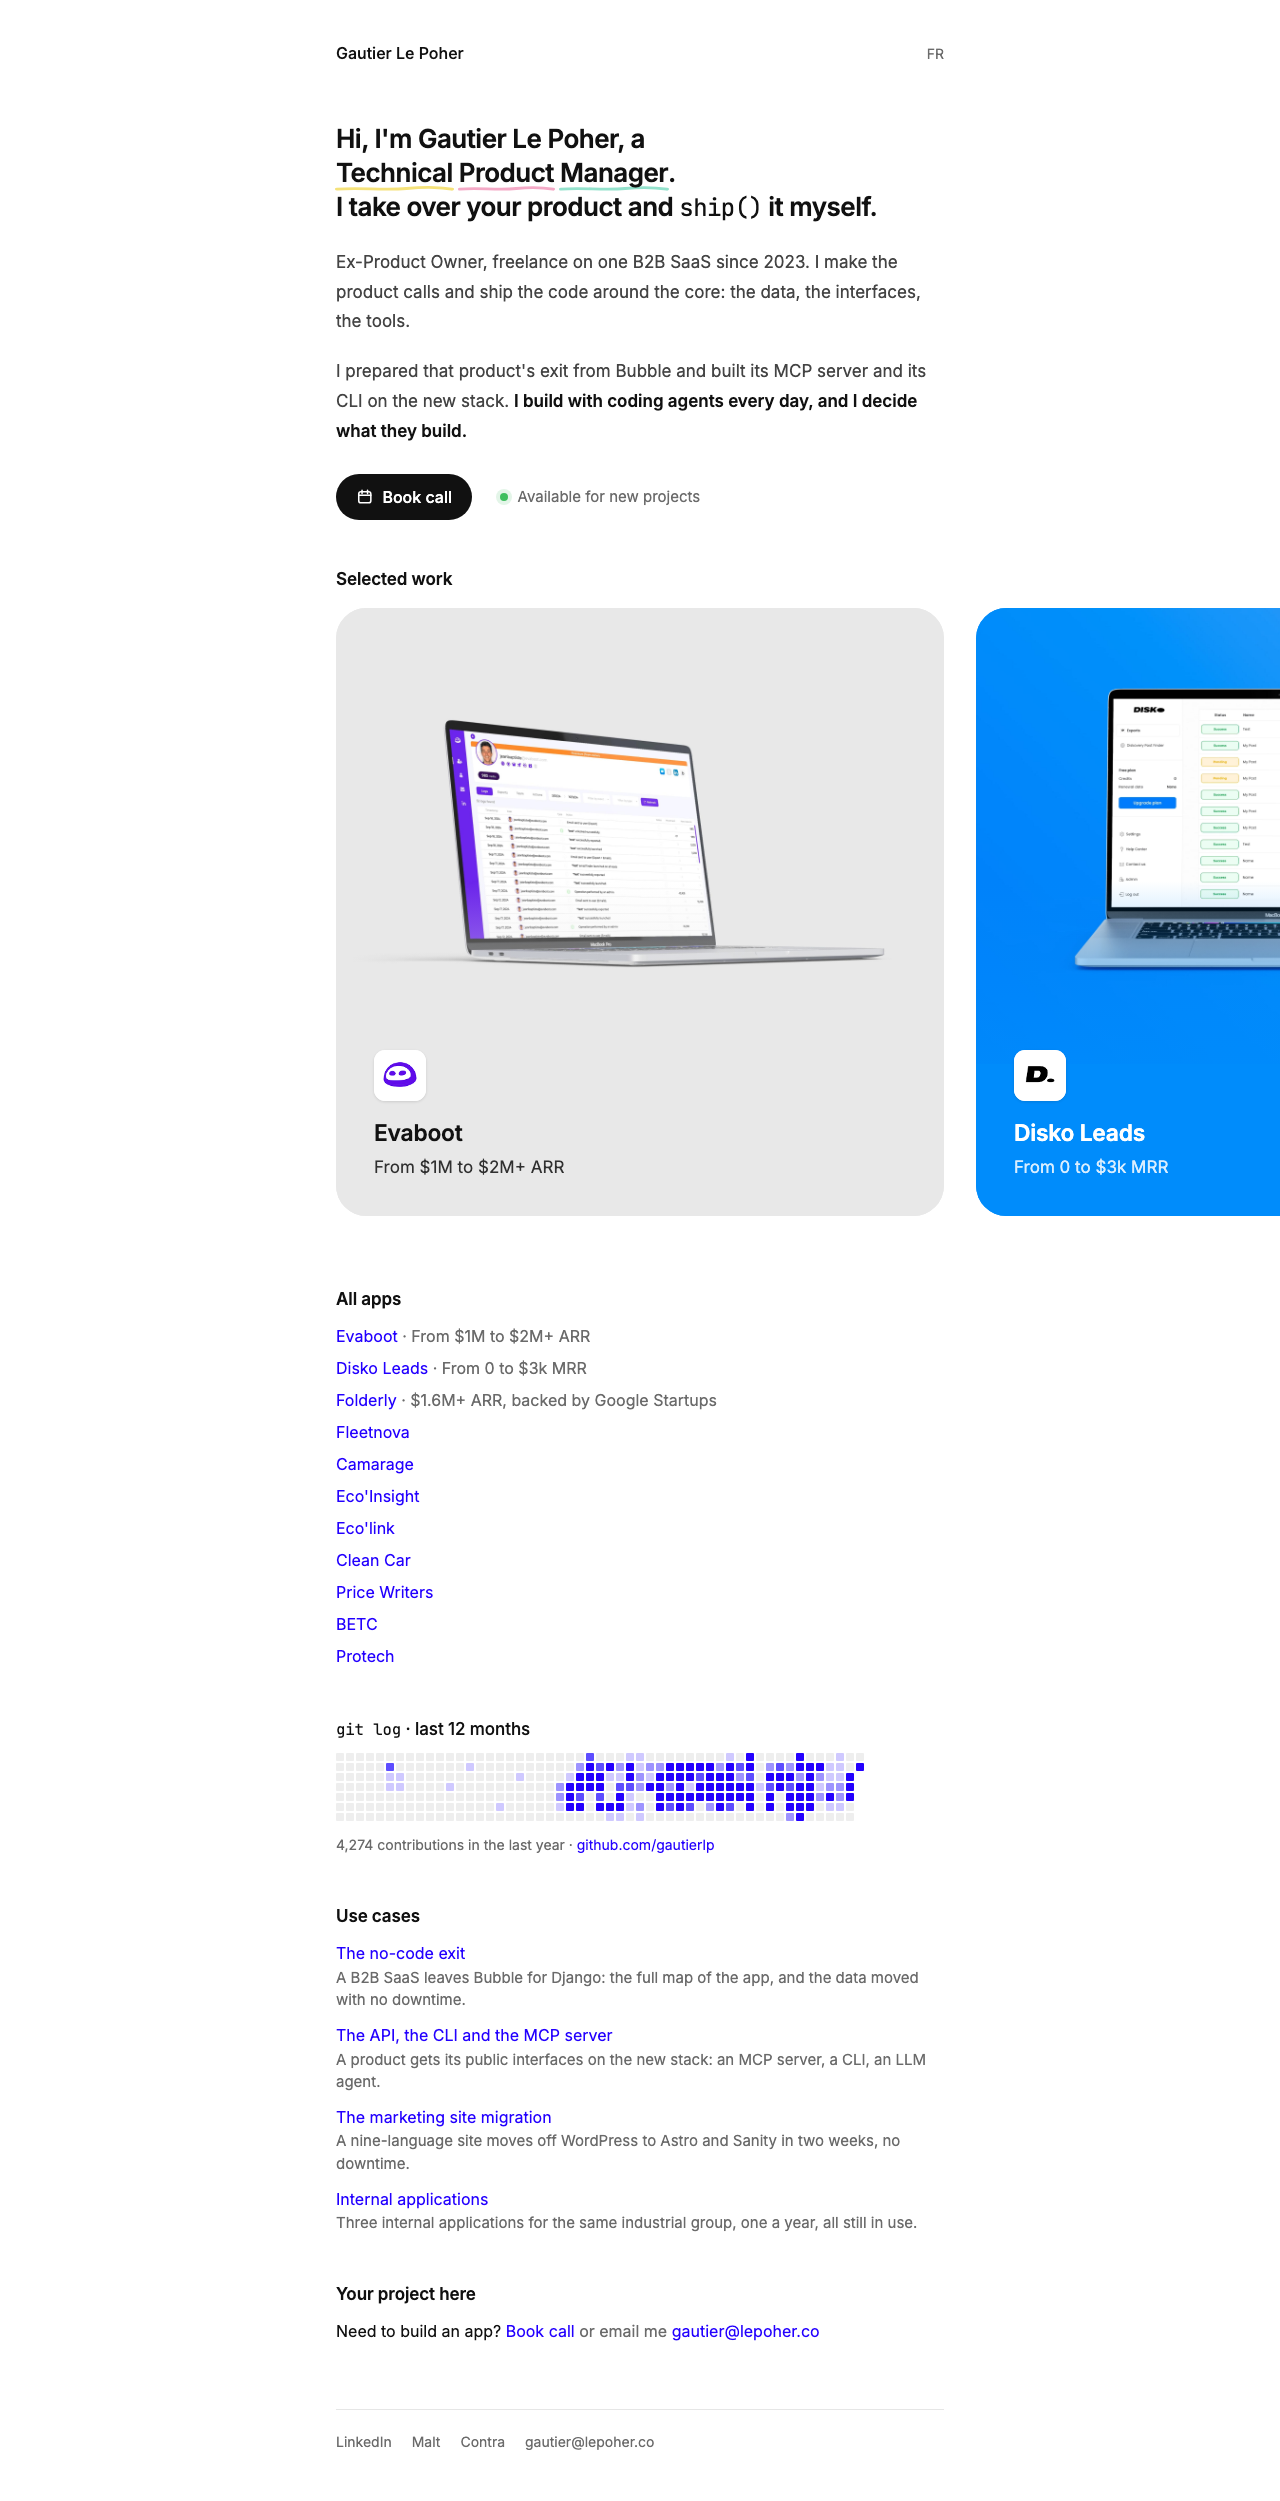
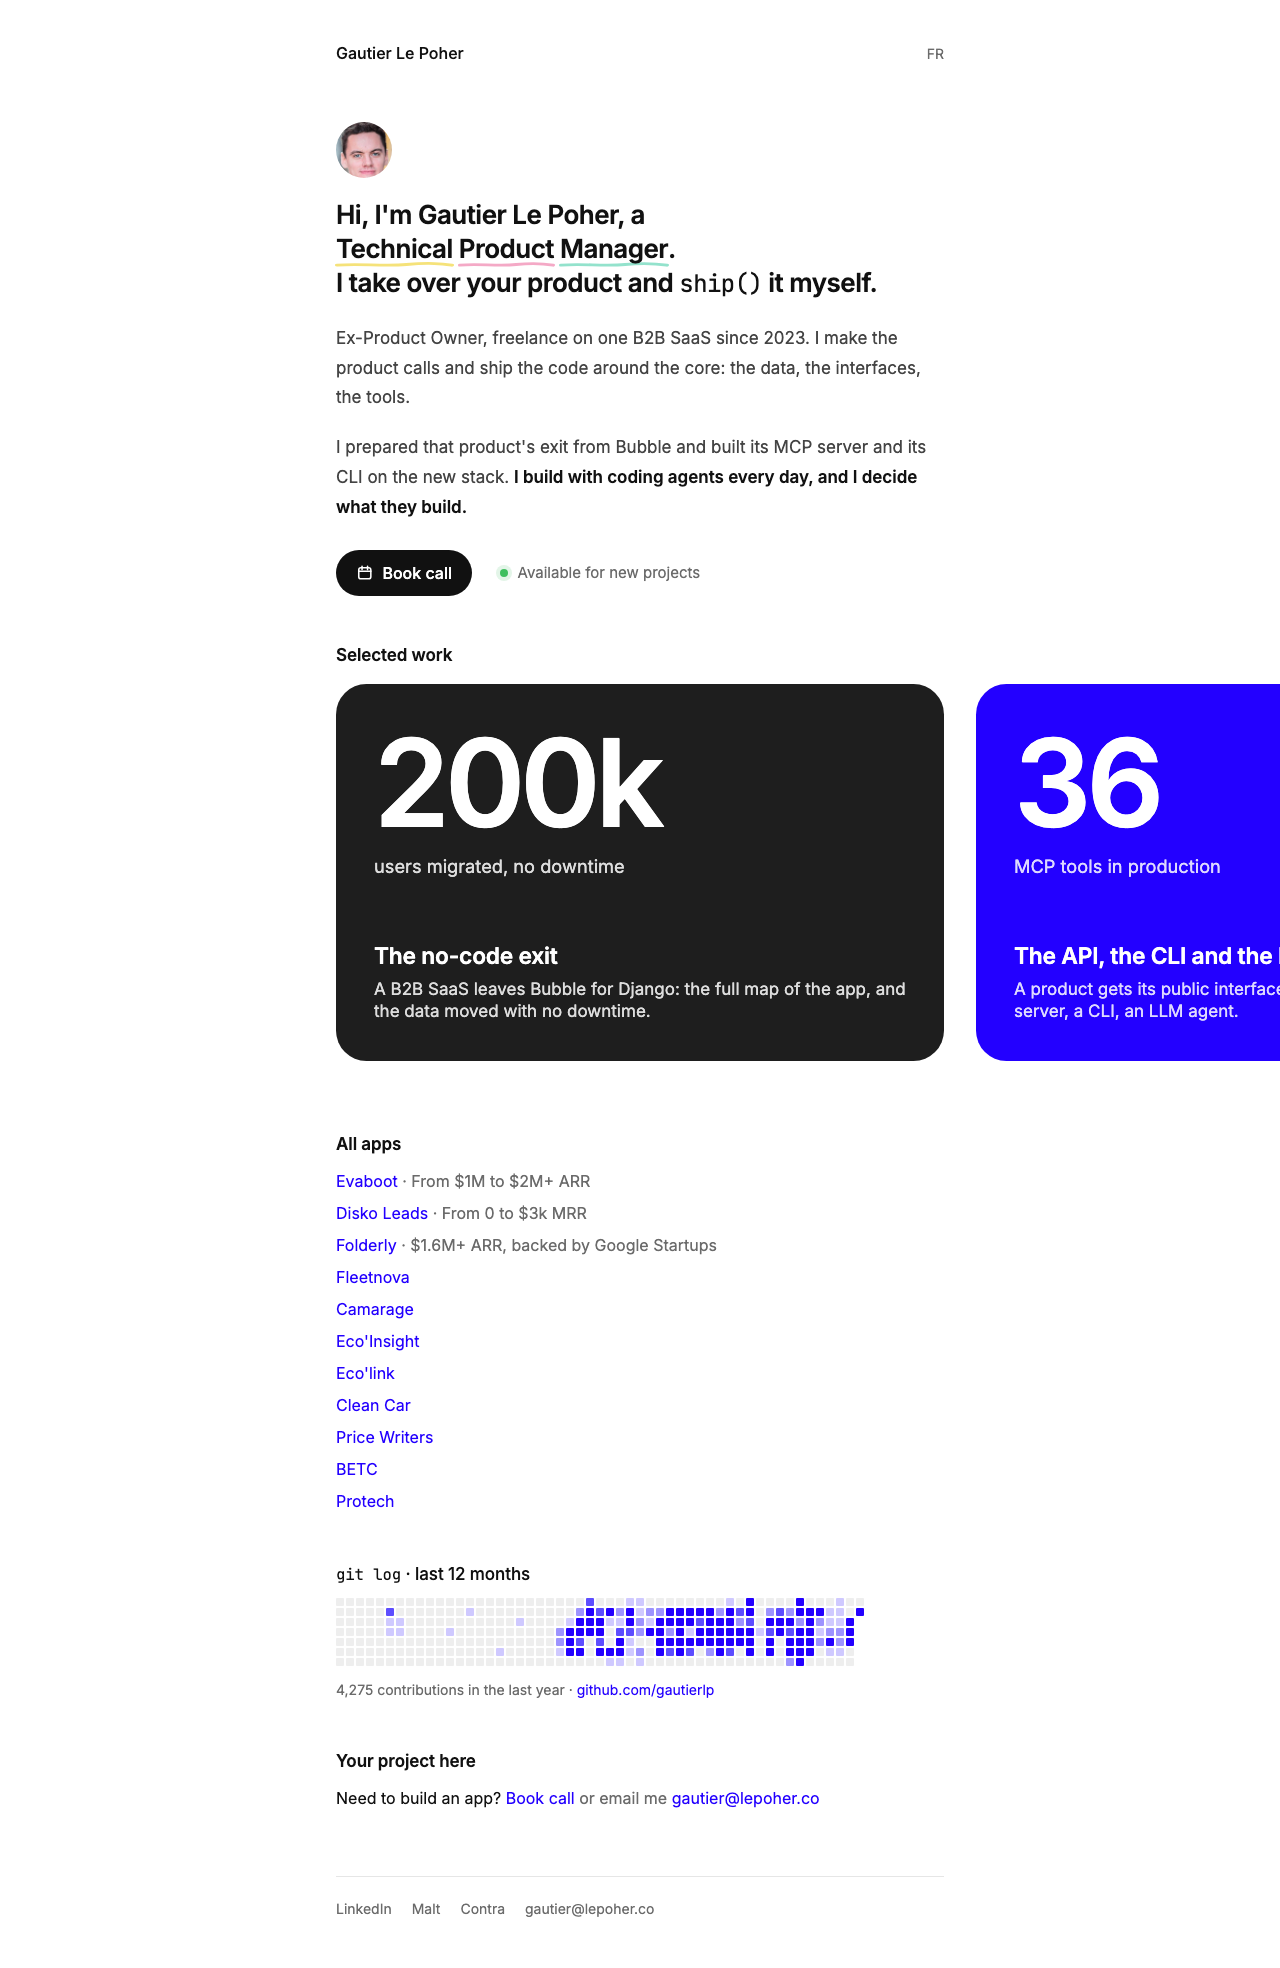
feat(design): use cases as selected work, small photo in the hero
The cards now show the four use cases with their result as a large
number, since those are what a buyer compares; the clients stay in the
plain list. The photo is a crop of image01.jpg without the Bubble
badge.

diff --git a/src/styles/global.css b/src/styles/global.css
@@ -41,6 +41,7 @@ h1, h2, h3 { font-size: 1.0625rem; font-weight: 600; line-height: 1.4; letter-sp
 .block > * + * { margin-top: 0.75rem; }
 .hero h1 { font-size: 1.625rem; line-height: 1.3; letter-spacing: -0.02em; }
 .hero__line { display: block; }
+.avatar { display: block; width: 3.5rem; height: 3.5rem; border-radius: 50%; object-fit: cover; }
 .hero > p { color: #444444; font-size: 1.0625rem; line-height: 1.75; }
 .hero > p strong { color: var(--ink); }
 .hero > * + * { margin-top: 1.25rem; }
@@ -75,14 +76,15 @@ h1, h2, h3 { font-size: 1.0625rem; font-weight: 600; line-height: 1.4; letter-sp
   display: flex; gap: clamp(0.75rem, 2.5vw, 2.5rem); padding: 1rem var(--edge) 1.5rem; overflow-x: auto;
   scroll-snap-type: x mandatory; scroll-padding-inline: var(--edge); overscroll-behavior-x: contain; scrollbar-width: none; }
 .work__track::-webkit-scrollbar { display: none; }
-.work__slide { flex: 0 0 var(--card); scroll-snap-align: start; }
-.card { position: relative; display: block; aspect-ratio: 1; overflow: hidden; isolation: isolate; border-radius: calc(var(--card) * 0.05);
+.work__slide { flex: 0 0 var(--card); display: flex; scroll-snap-align: start; }
+.work__slide > .card { flex: 1; }
+.card { position: relative; display: flex; flex-direction: column; justify-content: space-between; gap: 2rem; min-height: calc(var(--card) * 0.62); padding: calc(var(--card) * 0.0625); overflow: hidden; isolation: isolate; border-radius: calc(var(--card) * 0.05);
   background: var(--card-bg); color: var(--card-fg); transition: transform 0.5s ease, box-shadow 0.5s ease; }
 .card:hover { text-decoration: none; transform: translateY(-3px) scale(1.012); box-shadow: 0 18px 40px -18px rgba(0, 0, 0, 0.35); }
-.card::before { content: ""; position: absolute; inset: 45% 0 0; z-index: 1; background: linear-gradient(to bottom, transparent, var(--card-bg) 70%); }
-.card__media { position: absolute; top: 0; left: 0; width: 100%; height: auto; }
-.card__copy { position: absolute; left: calc(var(--card) * 0.0625); bottom: calc(var(--card) * 0.0625); right: calc(var(--card) * 0.0625); z-index: 2; display: flex; flex-direction: column; align-items: flex-start; }
-.card__logo { width: calc(var(--card) * 0.085); height: auto; min-width: 2.25rem; margin-bottom: calc(var(--card) * 0.03); border-radius: 22%; background: #ffffff; box-shadow: 0 1px 3px rgba(0, 0, 0, 0.12); }
+.card__figure { display: flex; flex-direction: column; }
+.card__number { font-size: calc(var(--card) * 0.2); font-weight: 600; letter-spacing: -0.04em; line-height: 1; }
+.card__unit { margin-top: calc(var(--card) * 0.02); font-size: max(0.9375rem, calc(var(--card) * 0.03)); line-height: 1.3; opacity: 0.85; }
+.card__copy { display: flex; flex-direction: column; align-items: flex-start; }
 .card__name { font-size: max(1.125rem, calc(var(--card) * 0.0375)); font-weight: 600; letter-spacing: -0.01em; line-height: 1.25; }
 .card__tagline { margin-top: calc(var(--card) * 0.0125); font-size: max(0.9375rem, calc(var(--card) * 0.028)); line-height: 1.3; opacity: 0.85; }
 @media (prefers-reduced-motion: reduce) { .card, .card:hover { transition: none; transform: none; } }

diff --git a/docs/superpowers/reports/design-plud.md b/docs/superpowers/reports/design-plud.md
@@ -20,9 +20,10 @@ At 390px, `document.documentElement.scrollWidth` is 390 on both pages, so there 
 - `src/styles/global.css`: rewritten. One 640px column (`--column: 40rem`) centred on a white page, 16px gutter. Inter for all text, JetBrains Mono only for `ship()` and `git log`. Near-black text, one grey (`--muted`), `#2300ff` kept as the only accent and used for links and the graph. Headings are 17px, weight 600; the headline and page titles are 22px. The Carrd frame, the pill buttons, the rounded image borders and the dark page background are gone. One special rule: the Contra imports of Evaboot, Disko Leads and Folderly open with an 800px reviewer photo alone in a paragraph, which looked huge at column width, so a CSS rule shows it as a 48px circle. The Markdown files are untouched.
 - `src/layouts/BaseLayout.astro`: header is the name (link home) on the left and FR/EN on the right. The three icons moved to a new footer as text links (LinkedIn, Malt, Contra) plus the e-mail. The floating back-to-top button is removed: the pages are short and plud.net has none. The `nav.top` string stays in `ui.ts`. The font link loads Inter 400/500/600 and JetBrains Mono instead of Overpass, Fira Sans and Inter 300.
 - `src/components/PlainList.astro`: new. One link per line, an optional grey note after the name, an optional grey summary under it.
-- `src/components/HomePage.astro`: order is now hero, all 11 projects (PlainList, result and label in grey when they exist), GitHub graph, the 4 use cases (PlainList with summaries), call to action. FeaturedCase, LogoGrid and NumberList are no longer used anywhere but the files stay.
-- `src/components/Hero.astro`: rebuilt on the plud.net hero after review. A two-line headline ("Hi, I'm Gautier Le Poher, a Technical Product Manager." then "I take over your product and ship() it myself."), each word of the role underlined with a hand-drawn stroke (yellow, pink, green), two grey paragraphs with the last sentence in bold, then a black "Book call" pill and a green "Available for new projects" dot. The paragraphs are the lepoher.co hero text from `positioning.md` in the `freelance` repository; the bold sentence and the French version are new and need a read. The old `hero.line2.*` and `hero.email` strings are gone from `ui.ts`, replaced by `hero.hi`, `hero.role`, `hero.p1`, `hero.p2`, `hero.p2.strong` and `hero.available`.
-- `src/components/WorkCarousel.astro`: new, after review, on the plud.net "Selected work" row. The three featured projects (Evaboot, Disko Leads, Folderly) as square cards in a row wider than the column that scrolls sideways and snaps to each card. Each card has the first still screenshot at the top, the logo on a small white tile (the PNG logos have a white background), the name, and the result as tagline. The card colour is the background colour of its screenshot, set in a small table in the component, so the image runs into the card. No script: the row scrolls with a trackpad, shift and the wheel, a finger, or the Tab key. plud.net also lets you drag it with the mouse, which needs JavaScript. The plain list of all 11 apps stays under it. New string: `section.selectedWork` ("Selected work", "Projets phares").
+- `src/components/HomePage.astro`: order is now hero, the use-case cards, all 11 projects (PlainList, result and label in grey when they exist), GitHub graph, call to action. FeaturedCase, LogoGrid and NumberList are no longer used anywhere but the files stay.
+- `src/components/Hero.astro`: rebuilt on the plud.net hero after review. A two-line headline ("Hi, I'm Gautier Le Poher, a Technical Product Manager." then "I take over your product and ship() it myself."), each word of the role underlined with a hand-drawn stroke (yellow, pink, green), two grey paragraphs with the last sentence in bold, then a black "Book call" pill, a small photo above the headline, and a green "Available for new projects" dot. The paragraphs are the lepoher.co hero text from `positioning.md` in the `freelance` repository; the bold sentence and the French version are new and need a read. The old `hero.line2.*` and `hero.email` strings are gone from `ui.ts`, replaced by `hero.hi`, `hero.role`, `hero.p1`, `hero.p2`, `hero.p2.strong` and `hero.available`.
+- `src/components/WorkCarousel.astro`: new, after review, on the plud.net "Selected work" row. The four use cases (not the clients) as cards in a row wider than the column that scrolls sideways and snaps to each card. Each card shows the use case's result as a large number with its label at the top, and the name and summary at the bottom, on one of four tones (black, the accent blue, light grey, orange). The height fits the text, with a minimum. No script: the row scrolls with a trackpad, shift and the wheel, a finger, or the Tab key. The "Use cases" plain list is gone from the homepage because the cards replace it; the list of all 11 apps stays. New string: `section.selectedWork` ("Selected work", "Projets phares"). All four use cases are still drafts, and their pages say so.
+- `public/assets/images/avatar.jpg`: new, a square crop of `image01.jpg` without the Bubble badge. The hero shows it as a 56px circle above the headline. `image01.jpg` is unchanged.
 - `src/components/CallToAction.astro`: heading plus one line with the Calendly link and the e-mail.
 - `src/components/GitHubGraph.astro`: only the wrapper class changed. Cells are 8px (were 10px).
 - `src/components/ProjectPage.astro`, `UseCasePage.astro`: same markup order, plain heading block (name, result, client in grey), links as text, images at column width with no frame, the quote with a thin left rule, related lists through PlainList.
@@ -30,7 +31,7 @@ At 390px, `document.documentElement.scrollWidth` is 390 on both pages, so there 
 
 ## Tests
 
-`GITHUB_TOKEN=$(gh auth token) npm test`: 6 of 6 unit tests pass and 19 of 19 site tests pass before the change. After it, 6 of 6 and 21 of 21: two tests were added, one for the new hero (greeting, three marked words, availability line, booking button, French availability line) and one for the three cards and their order, in English and French. No existing test was edited.
+`GITHUB_TOKEN=$(gh auth token) npm test`: 6 of 6 unit tests pass and 19 of 19 site tests pass before the change. After it, 6 of 6 and 22 of 22: three tests were added, for the new hero (greeting, three marked words, availability line, booking button, French availability line), for the photo, and for the four use-case cards and their order in English and French. No existing test was edited.
 
 ## To compare
 
